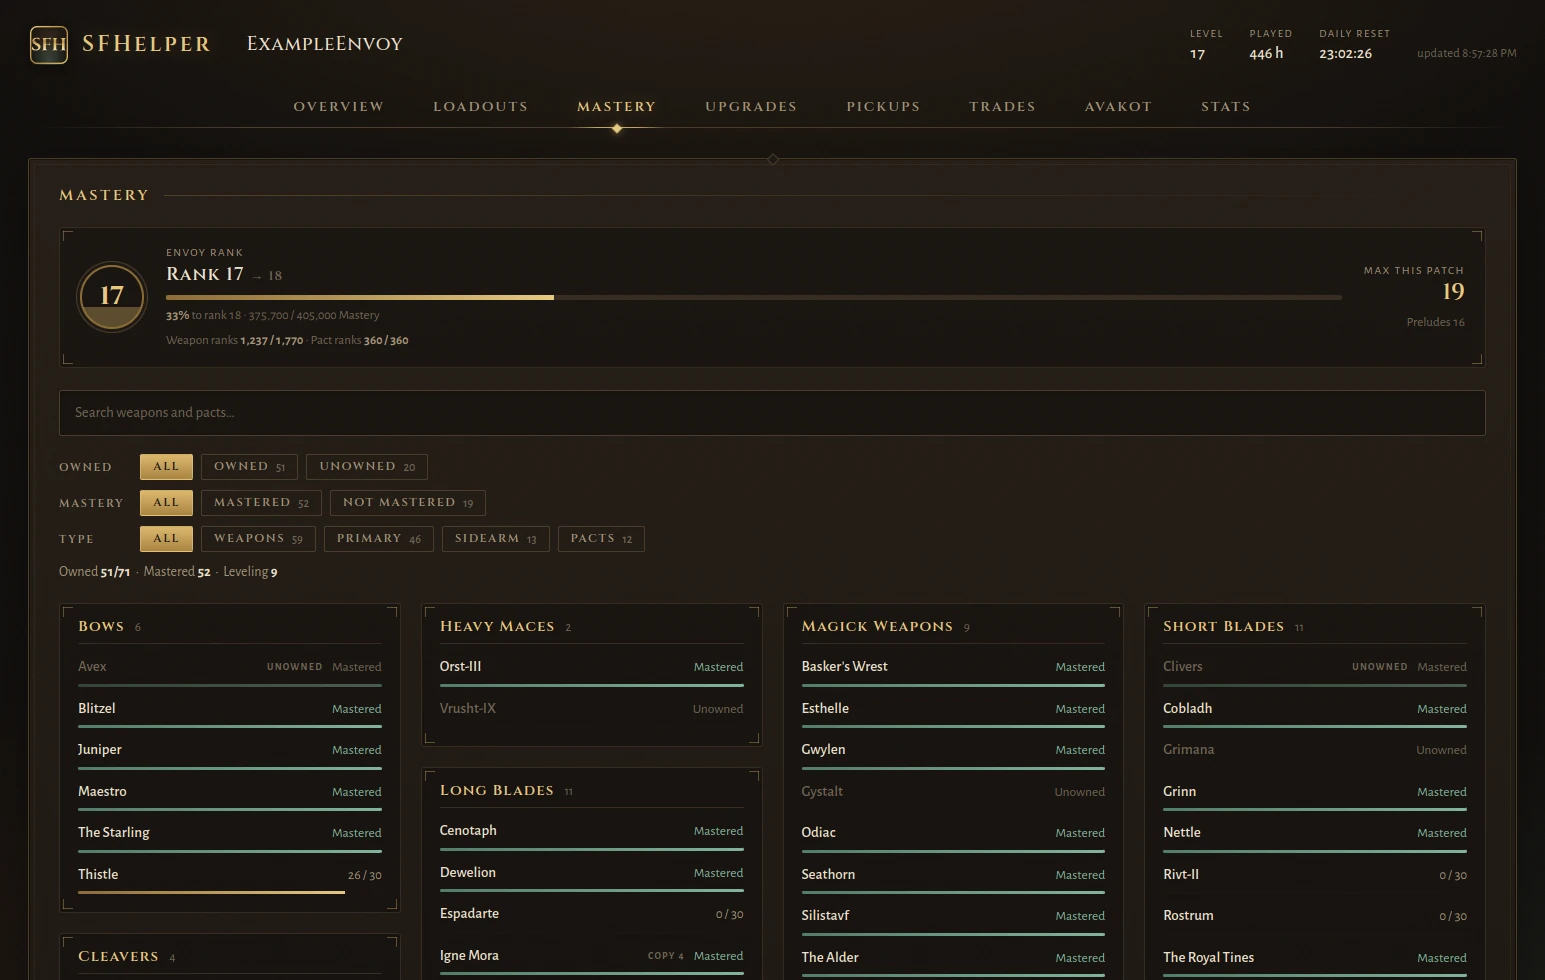
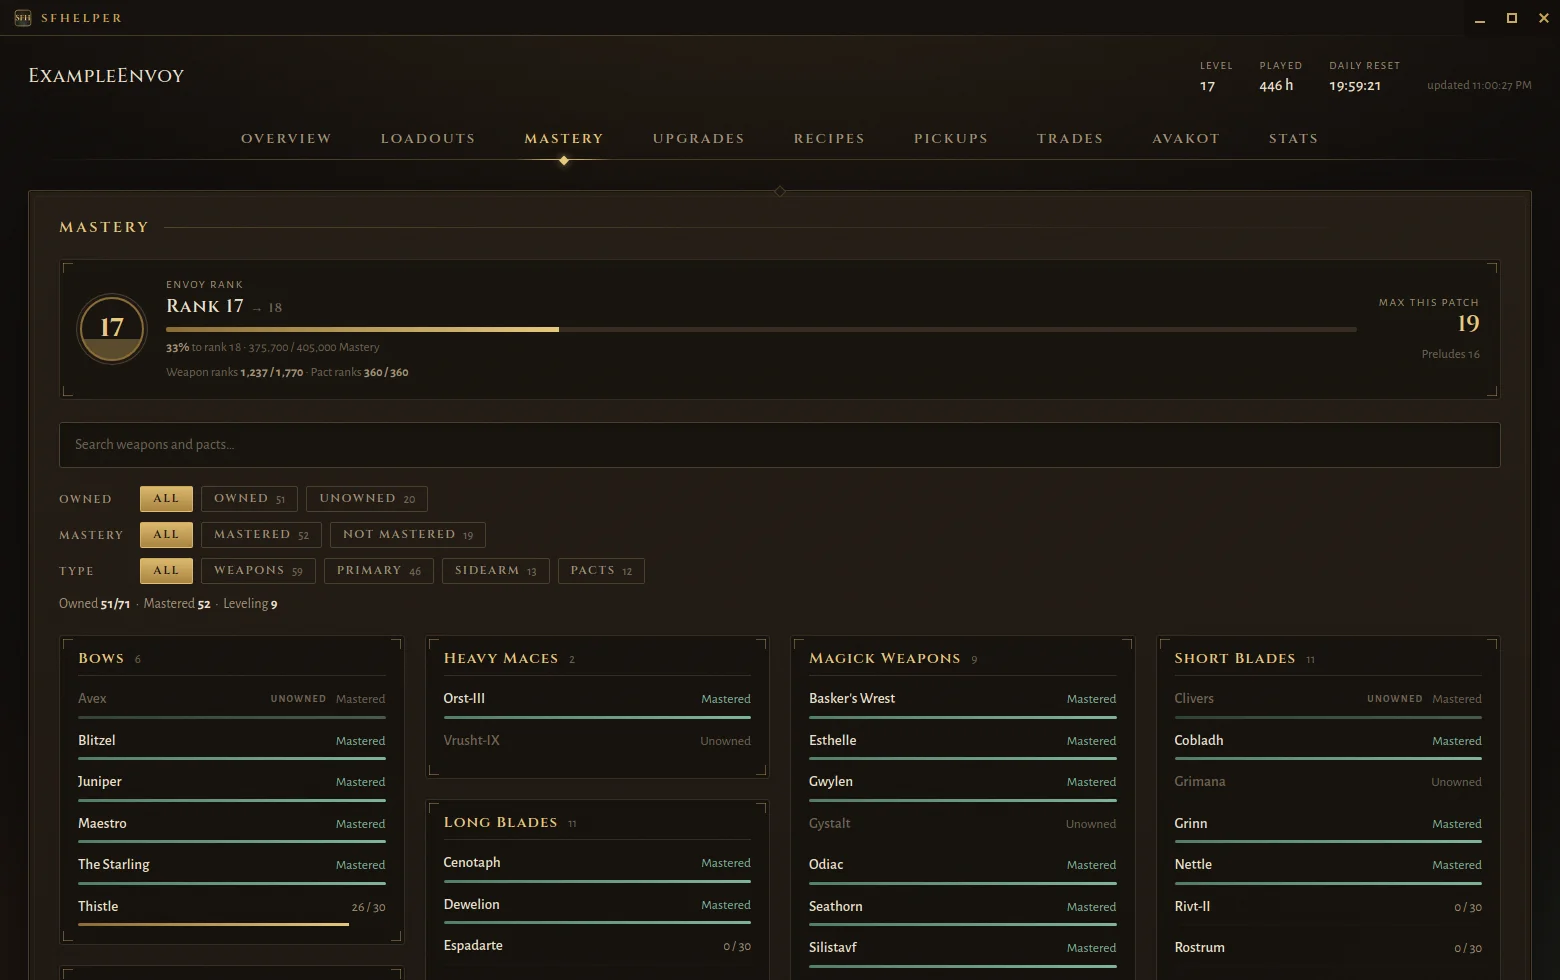
Added Ctrl+scroll zoom, Made tab switching faster, Shrank the AppImage and installer, Redid screenshots and added Recipes, Removed the menu bar from the consent window

diff --git a/src/server/public/index.html b/src/server/public/index.html
@@ -136,8 +136,8 @@
         background: var(--accent-hi); transform: translateX(-50%) rotate(45deg);
         box-shadow: 0 0 8px rgba(232, 201, 126, 0.6);
       }
-      .panel { display: none; }
-      .panel.active { display: grid; gap: 28px; }
+      .panel { display: grid; gap: 28px; }
+      .panel:not(.active) { content-visibility: hidden; }
       .cols { display: grid; grid-template-columns: 1fr 1fr; gap: 28px; align-items: start; }
       .ov-col { display: contents; }
       .ov-account { order: 1; }
@@ -2788,78 +2788,38 @@
           reloadingData = false;
         }
       }
+      const DATA_FILES = [
+        "names", "faction-ranks", "totems", "totemdata", "runes", "tempers", "pactarts", "itemicons",
+        "pactartvalues", "talismans", "armour", "weapons", "pacts", "upgrades", "recipes", "avakot",
+      ];
       async function loadDict() {
         dictLoadedAt = Date.now();
-        try {
-          const res = await fetch("/names.json");
-          if (res.ok) {
-            DICT = await res.json();
-            DICT_LC = {};
-            for (const k in DICT.items) DICT_LC[k.toLowerCase()] = DICT.items[k];
-          }
-        } catch {}
-        try {
-          const res = await fetch("/faction-ranks.json");
-          if (res.ok) FACTION_RANKS = await res.json();
-        } catch {}
-        try {
-          const res = await fetch("/totems.json");
-          if (res.ok) TOTEMS = await res.json();
-        } catch {}
-        try {
-          const res = await fetch("/totemdata.json");
-          if (res.ok) TOTEM_DATA = await res.json();
-        } catch {}
-        try {
-          const res = await fetch("/runes.json");
-          if (res.ok) RUNES = await res.json();
-        } catch {}
-        try {
-          const res = await fetch("/tempers.json");
-          if (res.ok) TEMPER_DB = await res.json();
-        } catch {}
-        try {
-          const res = await fetch("/pactarts.json");
-          if (res.ok) PACT_ARTS = await res.json();
-        } catch {}
-        try {
-          const res = await fetch("/itemicons.json");
-          if (res.ok) ITEM_ICONS = await res.json();
-        } catch {}
-        try {
-          const res = await fetch("/pactartvalues.json");
-          if (res.ok) PACT_ART_VALUES = await res.json();
-        } catch {}
-        try {
-          const res = await fetch("/talismans.json");
-          if (res.ok) TALISMANS = await res.json();
-        } catch {}
-        try {
-          const res = await fetch("/armour.json");
-          if (res.ok) ARMOUR = await res.json();
-        } catch {}
-        try {
-          const res = await fetch("/weapons.json");
-          if (res.ok) WEAPON_ROSTER = await res.json();
-        } catch {}
-        try {
-          const res = await fetch("/pacts.json");
-          if (res.ok) PACT_ROSTER = await res.json();
-        } catch {}
-        try {
-          const res = await fetch("/upgrades.json");
-          if (res.ok) UPGRADES = await res.json();
-          renderUpgradeItems();
-        } catch {}
-        try {
-          const res = await fetch("/recipes.json");
-          if (res.ok) RECIPES = (await res.json()).recipes || {};
-          renderRecipes();
-        } catch {}
-        try {
-          const res = await fetch("/avakot.json");
-          if (res.ok) AV_POOL = new Map((await res.json()).items.map((it) => [it.storeItem, it]));
-        } catch {}
+        const got = await Promise.all(
+          DATA_FILES.map((f) => fetch(`/${f}.json`).then((res) => (res.ok ? res.json() : null)).catch(() => null)),
+        );
+        const d = Object.fromEntries(DATA_FILES.map((f, i) => [f, got[i]]));
+        if (d.names) {
+          DICT = d.names;
+          DICT_LC = {};
+          for (const k in DICT.items) DICT_LC[k.toLowerCase()] = DICT.items[k];
+        }
+        if (d["faction-ranks"]) FACTION_RANKS = d["faction-ranks"];
+        if (d.totems) TOTEMS = d.totems;
+        if (d.totemdata) TOTEM_DATA = d.totemdata;
+        if (d.runes) RUNES = d.runes;
+        if (d.tempers) TEMPER_DB = d.tempers;
+        if (d.pactarts) PACT_ARTS = d.pactarts;
+        if (d.itemicons) ITEM_ICONS = d.itemicons;
+        if (d.pactartvalues) PACT_ART_VALUES = d.pactartvalues;
+        if (d.talismans) TALISMANS = d.talismans;
+        if (d.armour) ARMOUR = d.armour;
+        if (d.weapons) WEAPON_ROSTER = d.weapons;
+        if (d.pacts) PACT_ROSTER = d.pacts;
+        if (d.upgrades) UPGRADES = d.upgrades;
+        if (d.recipes) RECIPES = d.recipes.recipes || {};
+        if (d.avakot) AV_POOL = new Map((d.avakot.items || []).map((it) => [it.storeItem, it]));
+        renderUpgradeItems();
+        renderRecipes();
         loadAvakot();
       }
 

diff --git a/electron/main.ts b/electron/main.ts
@@ -35,6 +35,10 @@ const PREV_LOG_PATH = join(USER_DATA, "sfhelper.prev.log");
 const GAME_DATA_STATE_PATH = join(USER_DATA, "gamedata.json");
 const APP_PORT = 47317;
 const TITLE_BAR = { color: "#120e0b", symbolColor: "#c9a55c", height: 36 };
+const ZOOM_STEP = 0.5;
+const ZOOM_MIN = -3;
+const ZOOM_MAX = 4;
+const ZOOM_REPEAT_MS = 10;
 
 let server: RunningServer | null = null;
 let mainWindow: BrowserWindow | null = null;
@@ -317,6 +321,17 @@ async function notifyMoonsteel(p: Pickup): Promise<void> {
   log(`Moonsteel ${name} acquired (${p.source ?? "pickup"}).`);
 }
 
+function watchZoom(wc: Electron.WebContents): void {
+  let lastZoomAt = -Infinity;
+  wc.on("zoom-changed", (_e, direction) => {
+    const now = performance.now();
+    if (now - lastZoomAt < ZOOM_REPEAT_MS) return;
+    lastZoomAt = now;
+    const level = Math.min(ZOOM_MAX, Math.max(ZOOM_MIN, wc.getZoomLevel() + (direction === "in" ? ZOOM_STEP : -ZOOM_STEP)));
+    wc.setZoomLevel(level);
+  });
+}
+
 function createMainWindow(url: string): void {
   const area = screen.getPrimaryDisplay().workAreaSize;
   mainWindow = new BrowserWindow({
@@ -330,6 +345,7 @@ function createMainWindow(url: string): void {
     webPreferences: { contextIsolation: true },
   });
   void mainWindow.loadURL(url);
+  watchZoom(mainWindow.webContents);
   mainWindow.webContents.setWindowOpenHandler(({ url: target }) => {
     if (target.startsWith("https://github.com/hunhow0x1/SFHelper")) void shell.openExternal(target);
     return { action: "deny" };
@@ -372,6 +388,7 @@ function askConsent(): Promise<boolean> {
       icon: ICON_PATH,
       webPreferences: { contextIsolation: true, preload: join(HERE, "preload.cjs") },
     });
+    win.removeMenu();
     void win.loadFile(join(HERE, "consent.html"));
 
     let decided = false;

diff --git a/README.md b/README.md
@@ -17,6 +17,7 @@ Runs on **Linux** (AppImage) and **Windows** (installer or portable zip).
 | **Loadouts** | Each loadout's Pact (with its Pact Arts tree), weapons, Runes, Totems by slot, Tempers and Joinery (e.g. *Gildaur: Thrice Blessed by Mora*), plus its armour (Helm, Cuirass, Leggings, with defence and Virtue requirements) and Talisman. Virtue totals match the Arsenal, with a breakdown: allocated points, Pact Arts, Talisman and Fables. Pact Arts show the game's own numbers (e.g. Forestall's chance to survive). Loadouts can be shared as short `SFH1:` codes; paste one and press Enter or Import. |
 | **Mastery** | Your Envoy Rank, your Mastery and progress to the next rank, and the patch's maximum rank. Every weapon and pact shows its Mastery, which comes from the game's own record, so a re-crafted weapon still counts. Filter by owned, mastered and type (weapons, Primary, Sidearm or Pacts). Discoveries lists every place by its in-game name, whether you've found it, and the Memories found there. |
 | **Upgrades** | Tuvalkane temper learning; your Runes by weapon art with their rank, the Totem slot they add and their numbers at that rank; your Joineries by metal and blessing; your Gear, with what's equipped; and your Totem inventory with search and grip / Virtue / type filters. |
+| **Recipes** | Everything you can brew with the Witch Verminia (Elixirs, Pup Treats and Palettes) and the Chordstones Tuvalkane casts: each recipe's ingredients against what you have, what you're short of, the Dracs and time it takes, and the Bond rank it needs. Filter by station, or by what's ready to make. |
 | **Pickups** | Weapons you've picked up, with times taken from the game's log. Optional desktop notifications for Moonsteel finds. |
 | **Trades** | Your trade history: who you traded with, what you received and gave, with in-game icons (weapons with their craftwork and tempers), and the Dracs spent on Scutage. Plus how many trades you have left today. |
 | **Avakot** | What Avakot's Gots has in stock right now, with prices, purchase limits and how long each item stays, plus his weekly and always-stocked wares. Star anything he can sell to get a desktop notification when he stocks it. |
@@ -30,6 +31,7 @@ Runs on **Linux** (AppImage) and **Windows** (installer or portable zip).
 | ![Mastery: Envoy Rank and every weapon's Mastery](screenshots/mastery.webp) | ![Upgrades: Tuvalkane's tempers and your Runes](screenshots/upgrades-1.webp) |
 | ![Upgrades: Joineries, Gear and Totems](screenshots/upgrades-2.webp) | ![Pickups: weapons picked up, with craftwork and tempers](screenshots/pickups.webp) |
 | ![Trades: what you received and gave in each trade, and the Scutage paid](screenshots/trades.webp) | ![Avakot: what Avakot's Gots has in stock, with stars for notifications](screenshots/avakot.webp) |
+| ![Recipes: Verminia's brews and Tuvalkane's Chordstones, with what you have and what you're short of](screenshots/recipes.webp) | |
 
 ## How it gets your data
 
